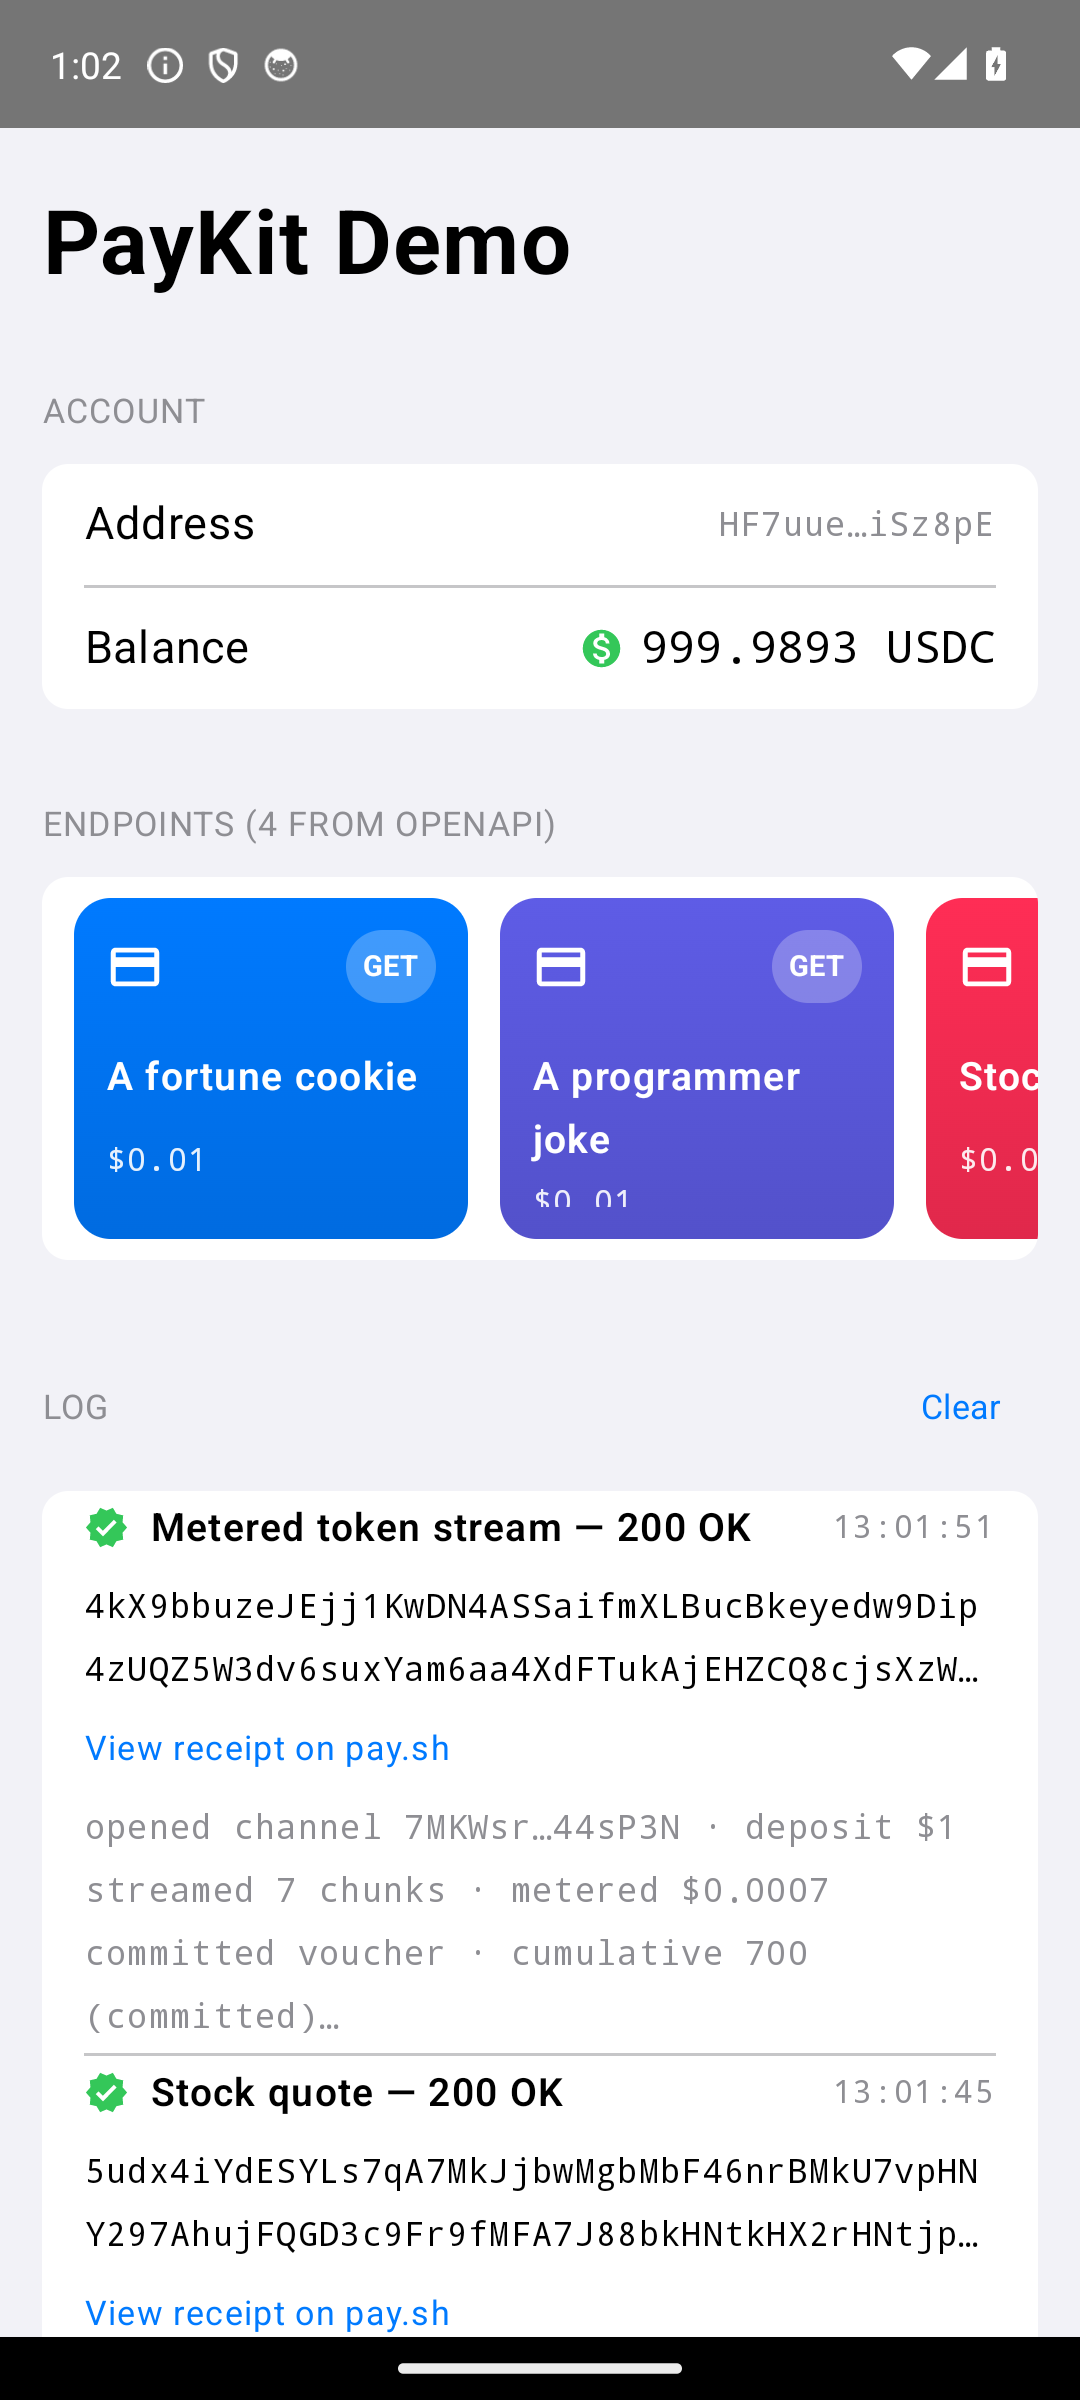
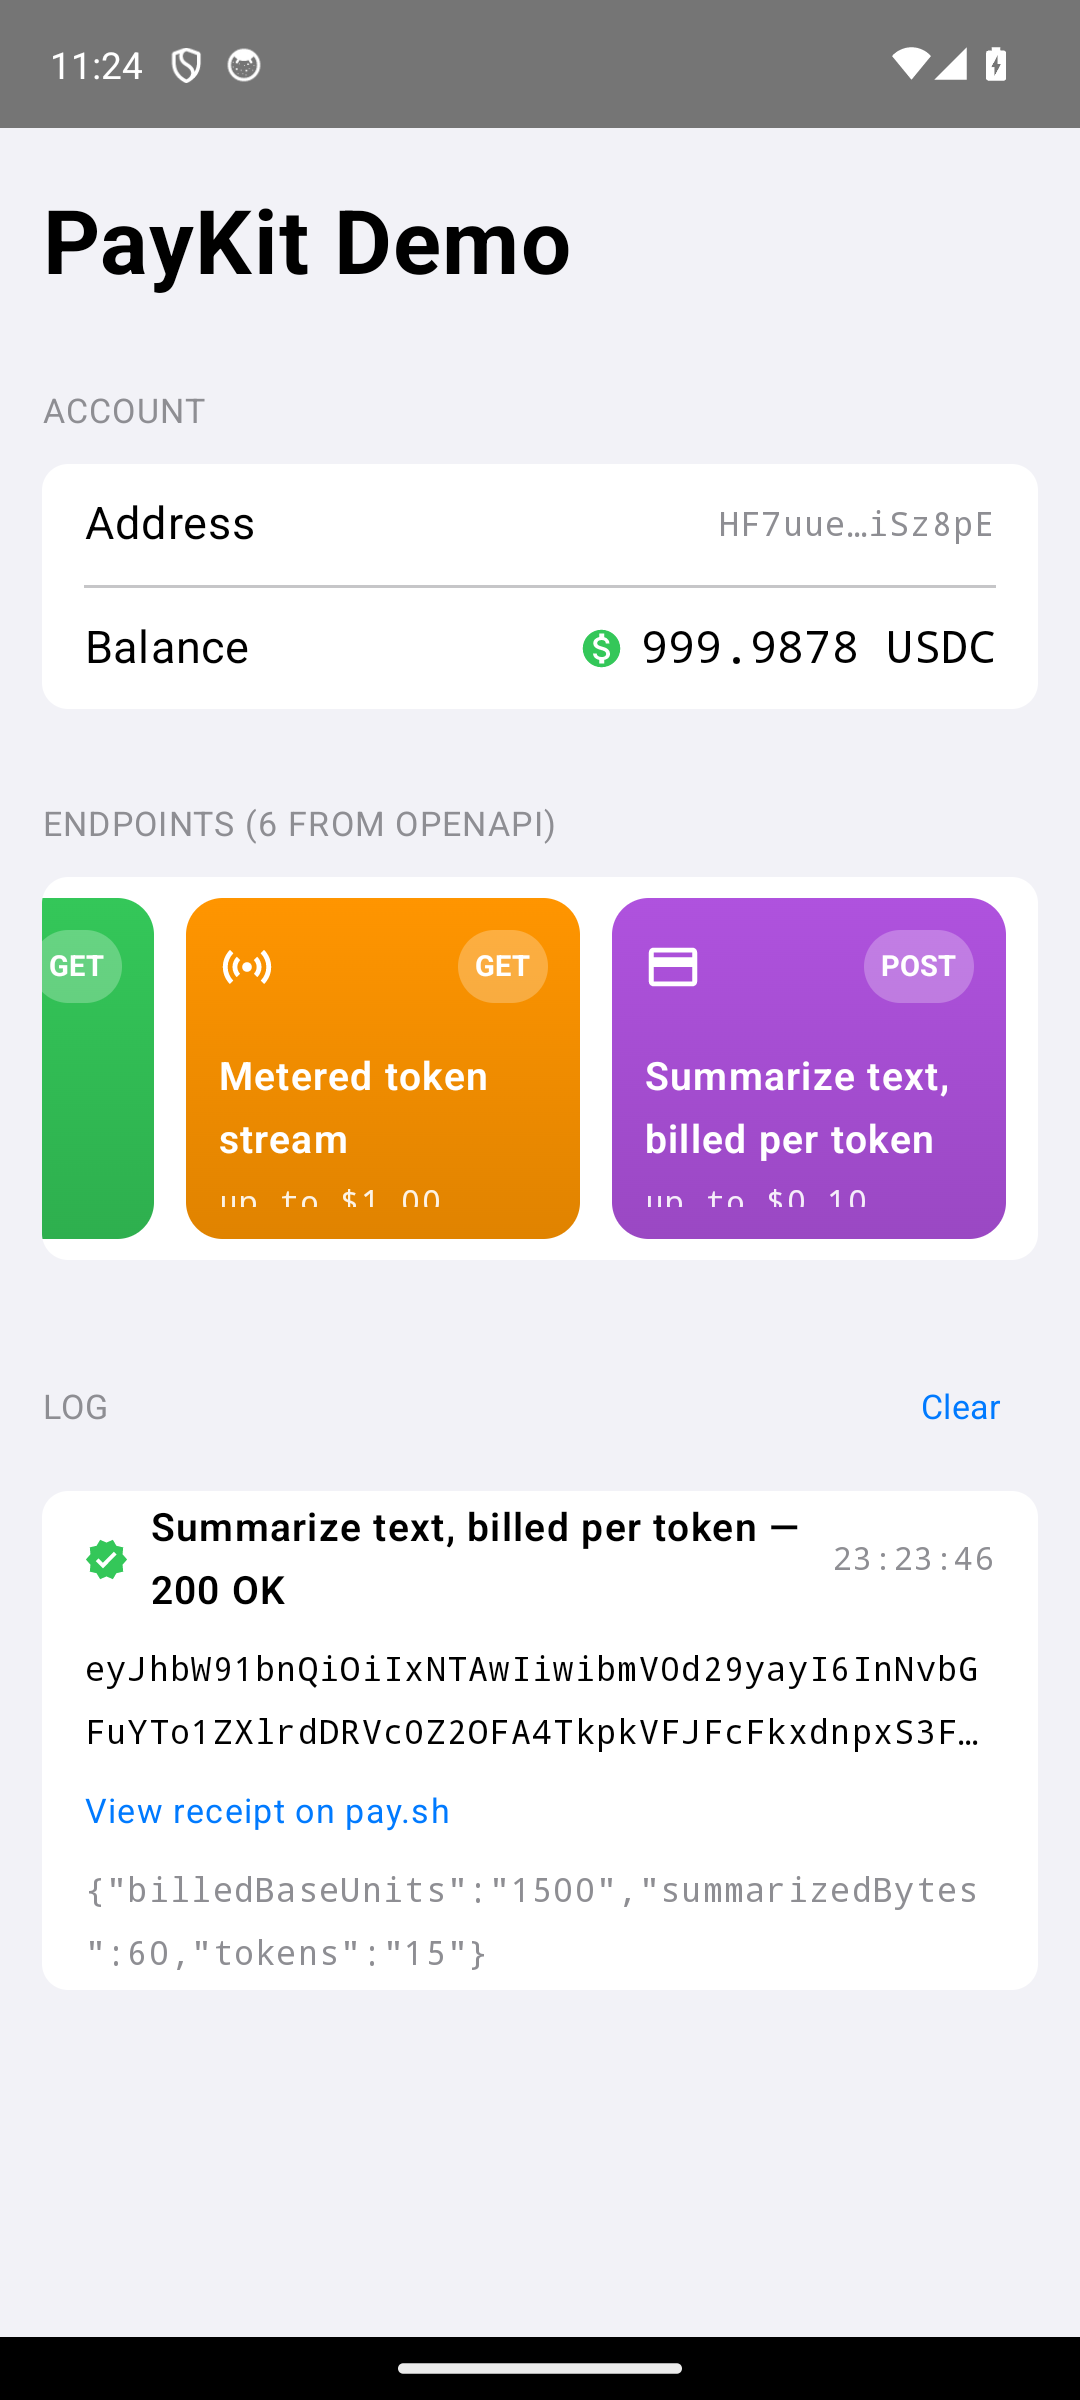
feat(kotlin): route demo upto by offer scheme and refresh screenshot
A metered x402 upto route advertises the generic `charge` discovery intent, so
the demo now routes the usage flow by the offer `scheme` (`upto`) before the
intent `when`. Adds the scheme to the parsed Endpoint and refreshes the
screenshot with a settled metered upto payment captured on the emulator.

diff --git a/kotlin/examples/AndroidDemo/app/src/main/java/com/solana/paykit/demo/MainActivity.kt b/kotlin/examples/AndroidDemo/app/src/main/java/com/solana/paykit/demo/MainActivity.kt
@@ -314,7 +314,17 @@ private fun DemoScreen() {
                             onSelectProtocol = { protocolChoice = protocolChoice + (endpoint.id to it) },
                             onClick = onClick@{
                                 val s = signer ?: return@onClick
-                                when (endpoint.intent) {
+                                // A metered x402 upto route advertises the generic
+                                // `charge` intent, so route by scheme first: authorize a
+                                // ceiling; the server meters + settles actual <= max.
+                                if (endpoint.scheme == "upto") {
+                                    busy = BusyKind.Pay(endpoint.id)
+                                    scope.launch {
+                                        append(consumeUpto(s, endpoint))
+                                        refreshBalance()
+                                        busy = null
+                                    }
+                                } else when (endpoint.intent) {
                                     // One-shot charge: the 402 -> sign -> retry loop, over the
                                     // protocol the user picked (default: the advertised mpp).
                                     "charge" -> {
@@ -332,17 +342,6 @@ private fun DemoScreen() {
                                         busy = BusyKind.Pay(endpoint.id)
                                         scope.launch {
                                             append(consumeSession(s, endpoint))
-                                            refreshBalance()
-                                            busy = null
-                                        }
-                                    }
-                                    // x402 upto (usage): authorize a ceiling via a
-                                    // payment channel; the server meters actual usage
-                                    // and settles actual <= max, refunding the rest.
-                                    "upto" -> {
-                                        busy = BusyKind.Pay(endpoint.id)
-                                        scope.launch {
-                                            append(consumeUpto(s, endpoint))
                                             refreshBalance()
                                             busy = null
                                         }

diff --git a/kotlin/examples/AndroidDemo/app/src/main/java/com/solana/paykit/demo/OpenApi.kt b/kotlin/examples/AndroidDemo/app/src/main/java/com/solana/paykit/demo/OpenApi.kt
@@ -33,6 +33,10 @@ data class Endpoint(
     val tint: Color,
     /** Discovery intent of the first offer (`charge` / `session` / …). */
     val intent: String,
+    /** Scheme of the first offer (`exact` / `upto` / …) when present. A metered
+     *  `upto` route advertises the generic `charge` intent, so the demo routes by
+     *  this scheme to reach the usage flow. */
+    val scheme: String?,
     /** Accepted protocols in offer order, e.g. `["x402", "mpp"]`. */
     val methods: List<String>,
     /** The protocol this demo settles over (`mpp` for charge endpoints that
@@ -137,6 +141,7 @@ object OpenApi {
             icon = iconFor(intent = intent, scheme = scheme, method = payMethod),
             tint = PALETTE[index % PALETTE.size],
             intent = if (!intent.isNullOrEmpty()) intent.lowercase() else "charge",
+            scheme = if (!scheme.isNullOrEmpty()) scheme.lowercase() else null,
             methods = methodsOf(offers),
             selectedProtocol = selectedProtocol(offers, intent),
         )

diff --git a/kotlin/examples/AndroidDemo/README.md b/kotlin/examples/AndroidDemo/README.md
@@ -94,7 +94,7 @@ endpoints are rendered from the playground's OpenAPI spec; the log shows
 a `Stock quote — 200 OK` consumed over MPP with its on-chain settlement
 signature.
 
-![Android emulator screenshot: OpenAPI endpoints and a settled MPP charge](docs/android-demo-screenshot.png)
+![Android emulator screenshot: OpenAPI endpoints and a settled x402 upto (metered) payment](docs/android-demo-screenshot.png)
 
 ## Expected UI state
 
